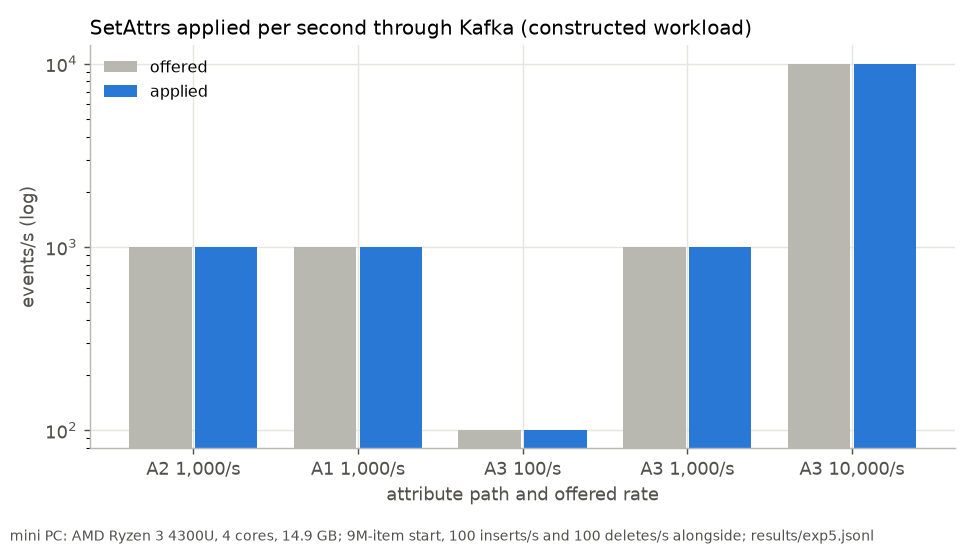
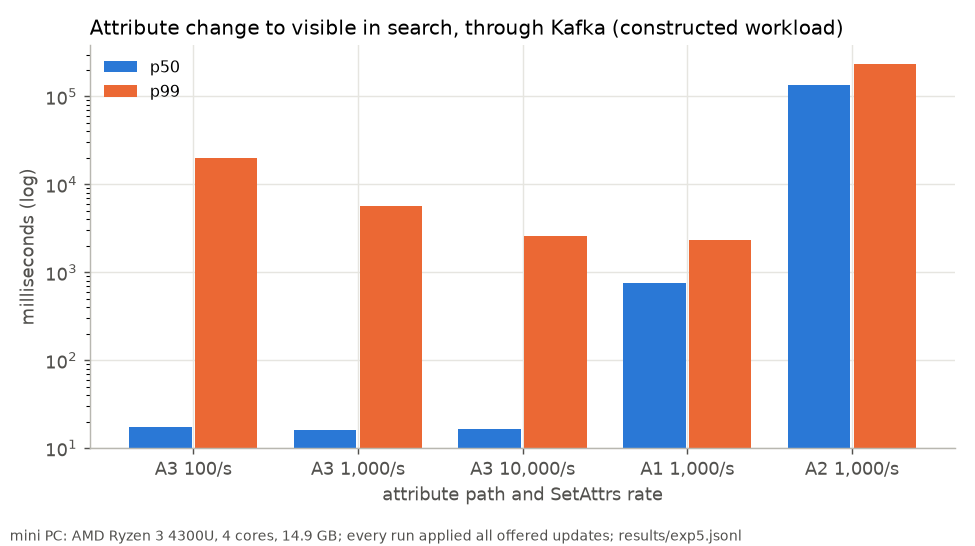
Write-up: freshness chart by attribute path

diff --git a/scripts/plots.py b/scripts/plots.py
@@ -135,24 +135,24 @@ def exp2():
 
 
 def exp5():
-    data = [r for r in rows("exp5.jsonl") if r["experiment"] == "exp5"]
+    data = [r for r in rows("exp5.jsonl") if r["via"] == "kafka"]
     if not data:
         return
+    order = sorted(data, key=lambda r: (r["mode"] != "A3", r["mode"], r["set_attrs_rate"]))
+    labels = [f"{r['mode']} {int(r['set_attrs_rate']):,}/s" for r in order]
+    # For A3 a change is visible once applied; for A1/A2 once a refresh exposes the Lucene write.
+    p50 = [(r["attr_apply_lag_us"]["p50"] if r["mode"] == "A3" else max(r["attr_apply_lag_us"]["p50"], r["lucene_visibility_lag_us"]["p50"])) / 1000 for r in order]
+    p99 = [(r["attr_apply_lag_us"]["p99"] if r["mode"] == "A3" else max(r["attr_apply_lag_us"]["p99"], r["lucene_visibility_lag_us"]["p99"])) / 1000 for r in order]
     fig, ax = plt.subplots(figsize=(7.5, 4.2), dpi=130)
-    labels, offered, applied = [], [], []
-    for r in data:
-        labels.append(f"{r['mode']} {int(r['set_attrs_rate']):,}/s")
-        offered.append(r["set_attrs_rate"])
-        applied.append(r["achieved_set_attrs_rate"])
     xs = range(len(labels))
-    ax.bar([x - 0.2 for x in xs], offered, width=0.38, color="#b8b7b0", label="offered")
-    ax.bar([x + 0.2 for x in xs], applied, width=0.38, color="#2a78d6", label="applied")
+    ax.bar([x - 0.2 for x in xs], p50, width=0.38, color="#2a78d6", label="p50")
+    ax.bar([x + 0.2 for x in xs], p99, width=0.38, color="#eb6834", label="p99")
     ax.set_xticks(list(xs))
     ax.set_xticklabels(labels)
     ax.set_yscale("log")
-    style(ax, "SetAttrs applied per second through Kafka (constructed workload)", "attribute path and offered rate", "events/s (log)")
+    style(ax, "Attribute change to visible in search, through Kafka (constructed workload)", "attribute path and SetAttrs rate", "milliseconds (log)")
     ax.legend(frameon=False, fontsize=9)
-    fig.text(0.01, 0.01, f"{MACHINE}; 9M-item start, 100 inserts/s and 100 deletes/s alongside; results/exp5.jsonl", fontsize=7.5, color=TEXT2)
+    fig.text(0.01, 0.01, f"{MACHINE}; every run applied all offered updates; results/exp5.jsonl", fontsize=7.5, color=TEXT2)
     fig.tight_layout(rect=(0, 0.04, 1, 1))
     fig.savefig(os.path.join(IMG, "exp5_updates.png"))
     plt.close(fig)

diff --git a/docs/WRITEUP.md b/docs/WRITEUP.md
@@ -116,14 +116,15 @@ On a constructed workload (start from 9M items, stream the rest in at 100 insert
 and flip tags at the stated rate; not a competition track), measured over 150 s windows
 (`results/exp5.jsonl`):
 
-![Attribute updates](img/exp5_updates.png)
+![Attribute change to visible](img/exp5_updates.png)
 
 - A3 kept up at 10,000 SetAttrs/s through Kafka (9,999.7/s applied, no backlog), and an attribute
   change reached the next query in 16.7 ms at the median. The tail is long (p99 2.6 s at 10,000/s,
   20 s at 100/s); it does not grow with the rate, which points at the single consumer thread
   stalling behind the Lucene writes for inserts and deletes it also applies.
-- A1 also kept up at 1,000/s, but merged for 23.8 s of every minute against 2 to 7 s for A3: every
-  tag change rebuilt a document and re-inserted its vector.
+- A1 also kept up at 1,000/s, but a change became visible only at the next NRT refresh (0.76 s at the
+  median with a 1 s refresh, against A3's 16 ms), and it merged for 23.8 s of every minute against
+  2 to 7 s for A3: every tag change rebuilt a document and re-inserted its vector.
 - A2 broke down at 1,000/s: Lucene's write-to-visible p99 reached 235 s and the index grew from 2.97
   to 3.37 GB in 150 s, because every refresh writes a new generation of the doc-value field for the
   whole 9M-document segment, and the doc-value filter has to scan every document.
